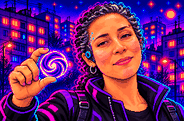
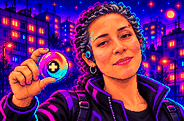
Eigene Hyperstein-Porträts (11); gleichnamige Figuren in mehreren Ordnern möglich
Claude-Session: https://claude.ai/code/session_01GtwohXY42jysSmAk5XgZcY

diff --git a/App/Sources/Splash/Contact.swift b/App/Sources/Splash/Contact.swift
@@ -59,7 +59,9 @@ struct Contact: Equatable {
             let parts = stem.dropFirst("portrait_".count).components(separatedBy: "--")
             guard parts.count == 3, let base = all.first(where: { $0.id == parts[0] }) else { continue }
             let voice = voicePresets[parts[2]] ?? base.voice
-            let name = parts[1].replacingOccurrences(of: "-", with: " ").uppercased()
+            // „vera_hyperstein“ → „VERA“: der Zusatz nach „_“ unterscheidet nur gleichnamige Dateien
+            let label = parts[1].components(separatedBy: "_")[0]
+            let name = label.replacingOccurrences(of: "-", with: " ").uppercased()
             let variant = Contact(id: String(stem.dropFirst("portrait_".count)), name: name, look: base.look,
                                   skin: base.skin, hair: base.hair, jacket: base.jacket, accent: base.accent,
                                   voice: voice, voiceSlot: nil)

diff --git a/tools/import_portraits.py b/tools/import_portraits.py
@@ -33,7 +33,7 @@ RENAME = {"k9--momo--hund": "k9--momo--katze"}
 VOICES = {"mann", "mann-tief", "frau", "maedchen", "junge", "alt", "hund", "katze", "roboter"}
 
 
-def convert(src: Path) -> str | None:
+def convert(src: Path, key: str = "", taken: set[str] | None = None) -> str | None:
     name = src.stem.lower().removeprefix("portrait_")
     parts = name.split("--")
     cid = ALIASES.get(parts[0], parts[0])
@@ -47,6 +47,11 @@ def convert(src: Path) -> str | None:
             print(f"übersprungen: {src.name} (unbekannte Stimme „{voice}“, erlaubt: {', '.join(sorted(VOICES))})")
             return None
         cid = RENAME.get(f"{cid}--{variant}--{voice}", f"{cid}--{variant}--{voice}")
+        # Gleiche Figur in zwei Ordnern (z. B. Vera bei Strudel und Hyperstein): Ordner als Zusatz nach „_“,
+        # der im Spiel nicht angezeigt wird
+        if taken is not None and cid in taken:
+            base, name, voice = cid.split("--")
+            cid = f"{base}--{name}_{key}--{voice}"
     elif len(parts) != 1:
         print(f"übersprungen: {src.name} (Format: portrait_<kontakt>--<name>--<stimme>.png)")
         return None
@@ -73,13 +78,15 @@ def convert(src: Path) -> str | None:
 def main():
     folder = Path(sys.argv[1]) if len(sys.argv) > 1 else Path(".")
     holders: dict[str, list[str]] = {}
+    taken: set[str] = set()
     for sub in sorted(p for p in folder.iterdir() if p.is_dir() and not p.name.startswith("__")):
         key = ITEMS.get(sub.name.lower())
         if key is None:
             print(f"Ordner übersprungen: {sub.name} (bekannt: {', '.join(sorted(ITEMS))})")
             continue
         for src in sorted(sub.glob("portrait_*.png")):
-            if cid := convert(src):
+            if cid := convert(src, key, taken):
+                taken.add(cid)
                 holders.setdefault(key, []).append(cid)
     # Spezialsteine ohne eigenen Ordner leihen sich die Porträts einer passenden Power-up-Gruppe
     for special, donor in BORROW.items():
